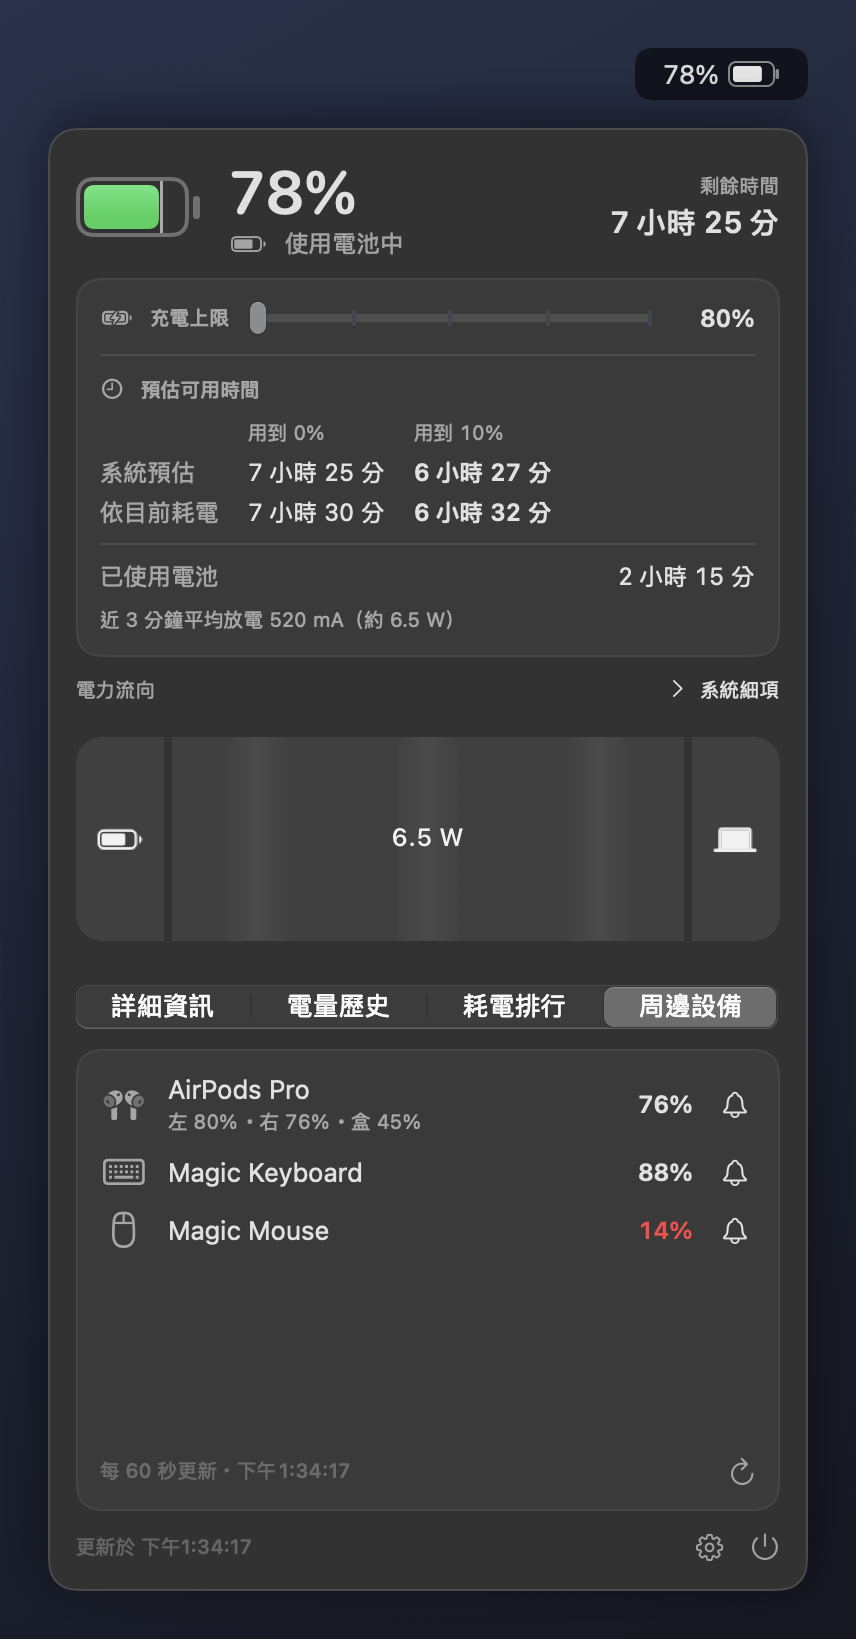
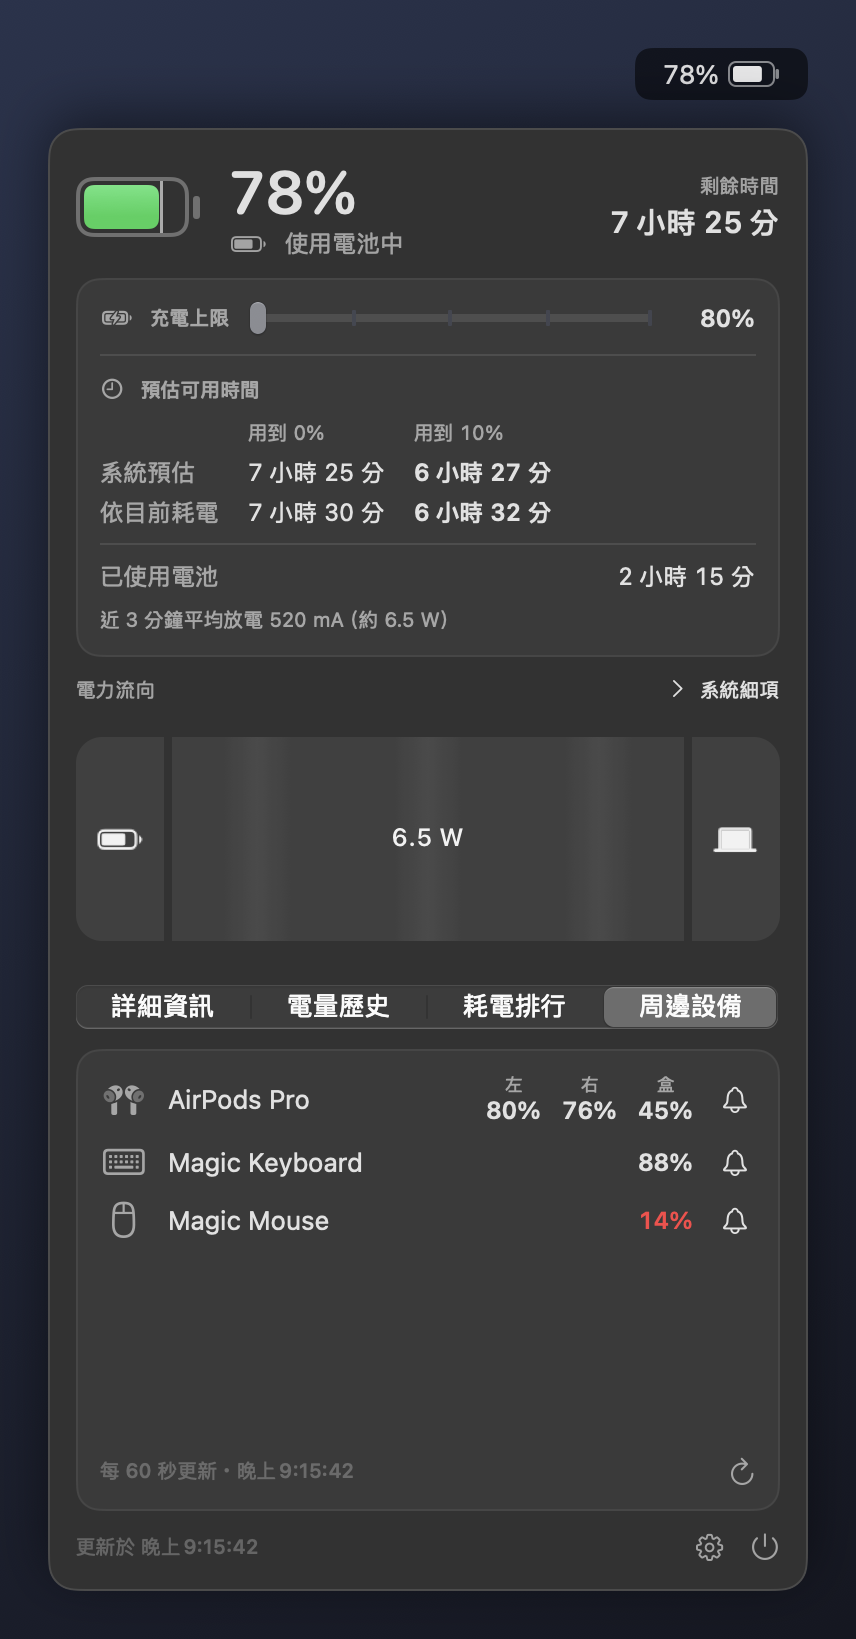
Release v1.6.3
Earbuds show their left, right and case levels side by side in the peripherals tab.

diff --git a/.github/release-notes/v1.6.3.md b/.github/release-notes/v1.6.3.md
@@ -1,0 +1,22 @@
+# v1.6.3：耳機的左耳、右耳與充電盒並排顯示
+
+周邊設備分頁的耳機改成在同一行並排顯示「左」「右」「盒」三個電量。使用 v1.5.0 以後的版本，到設定 → 更新按「一鍵更新」即可升級。
+
+### 改善
+- **耳機電量一目了然**：v1.6.2 以前，AirPods 等耳機在右邊只顯示一個數字（三者中最低的），左耳、右耳與充電盒的電量擠在名稱下方的小字裡，看不出那個數字是哪一個。現在右邊改成「左」「右」「盒」三欄，各自標示電量
+- 沒有回報電量的部分（例如耳機放在盒子外、充電盒沒有回報）不顯示該欄
+- 左耳或右耳低於這個設備的通知門檻時，該欄數字變紅；充電盒不發低電量通知，所以不會變紅
+- 鍵盤、滑鼠、觸控板等只有一顆電池的設備維持原本的顯示
+
+一樣有電池版與系統監控版兩個 zip，並附 `SHA256SUMS.txt`。
+
+### 安裝
+需求：macOS 14 以上、Apple Silicon。
+
+- **已在用 v1.5.0 以後的版本**：設定 → 更新 →「一鍵更新」
+- **v1.4.1 以前或第一次安裝**：下載下方的電池版或系統監控版 zip，解壓縮後把 App 拖到「應用程式」。第一次打開時 macOS 會擋下來（App 沒有 Apple 開發者簽章），到「系統設定 → 隱私權與安全性」按「強制打開」，或在終端機執行：
+  ```bash
+  xattr -dr com.apple.quarantine /Applications/macbookBatteryMonitor.app
+  ```
+
+設定與歷史資料都會保留。
